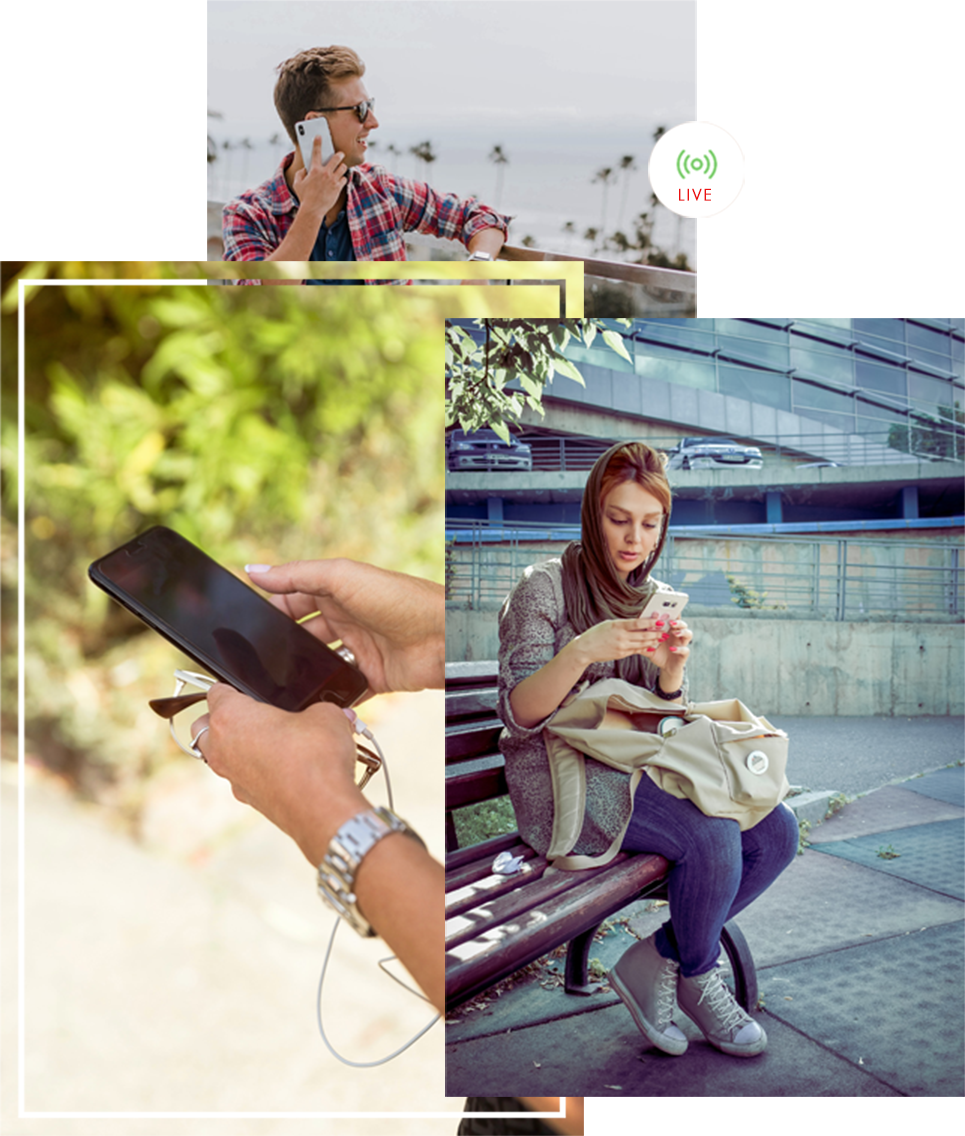
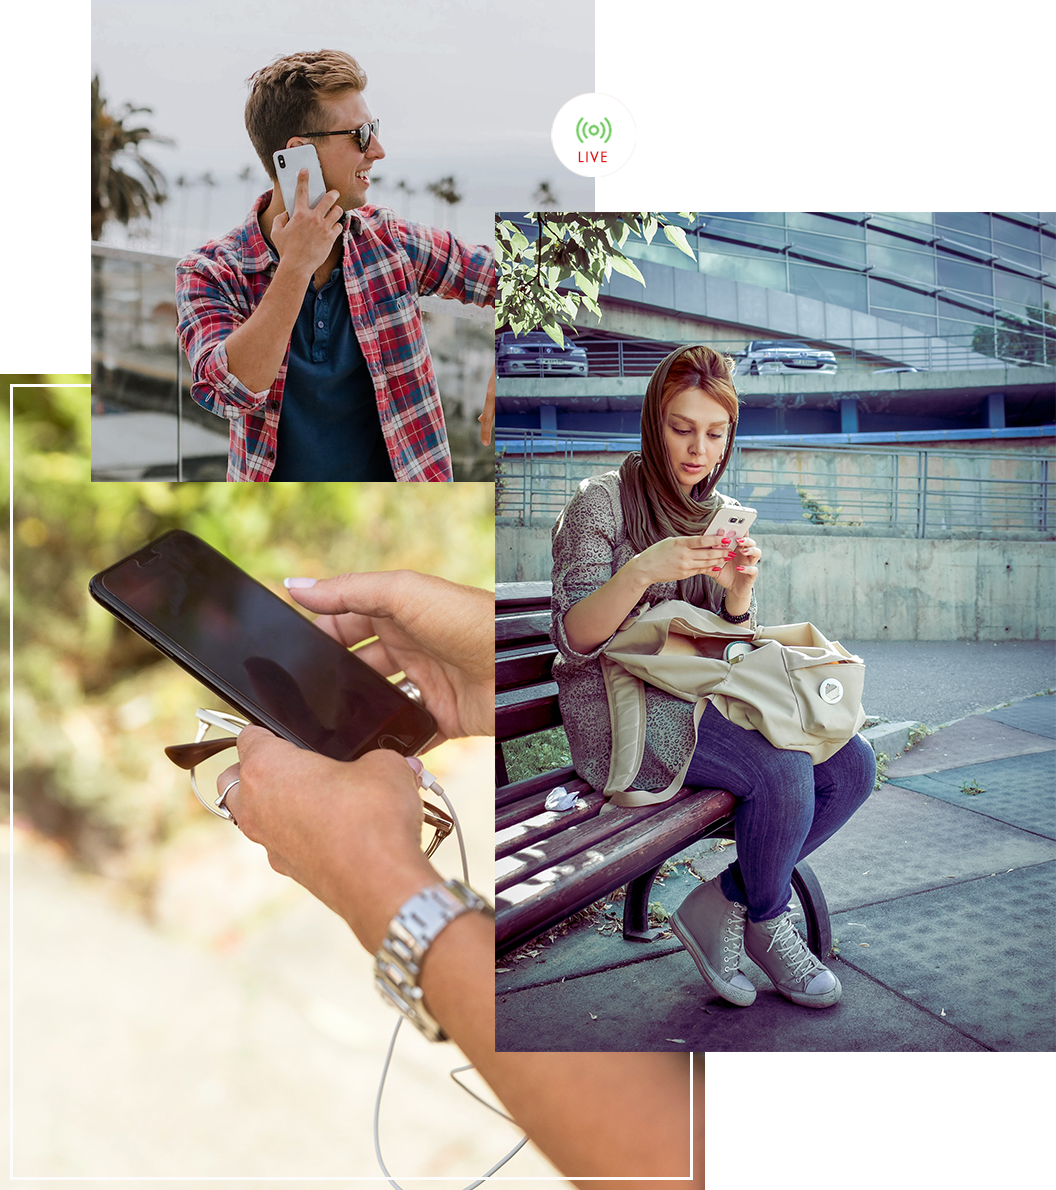
fixes

diff --git a/index.html b/index.html
@@ -500,7 +500,7 @@
 						</div>
 					</div>
 					<div class="tranfser__img">
-						<img src="img/transfer.png" width="684" height="538" alt="трансфер">
+						<img src="img/transfer.jpg" width="643" height="538" alt="трансфер">
 					</div>
 				</div>
 				<div class="transfer__footer">
